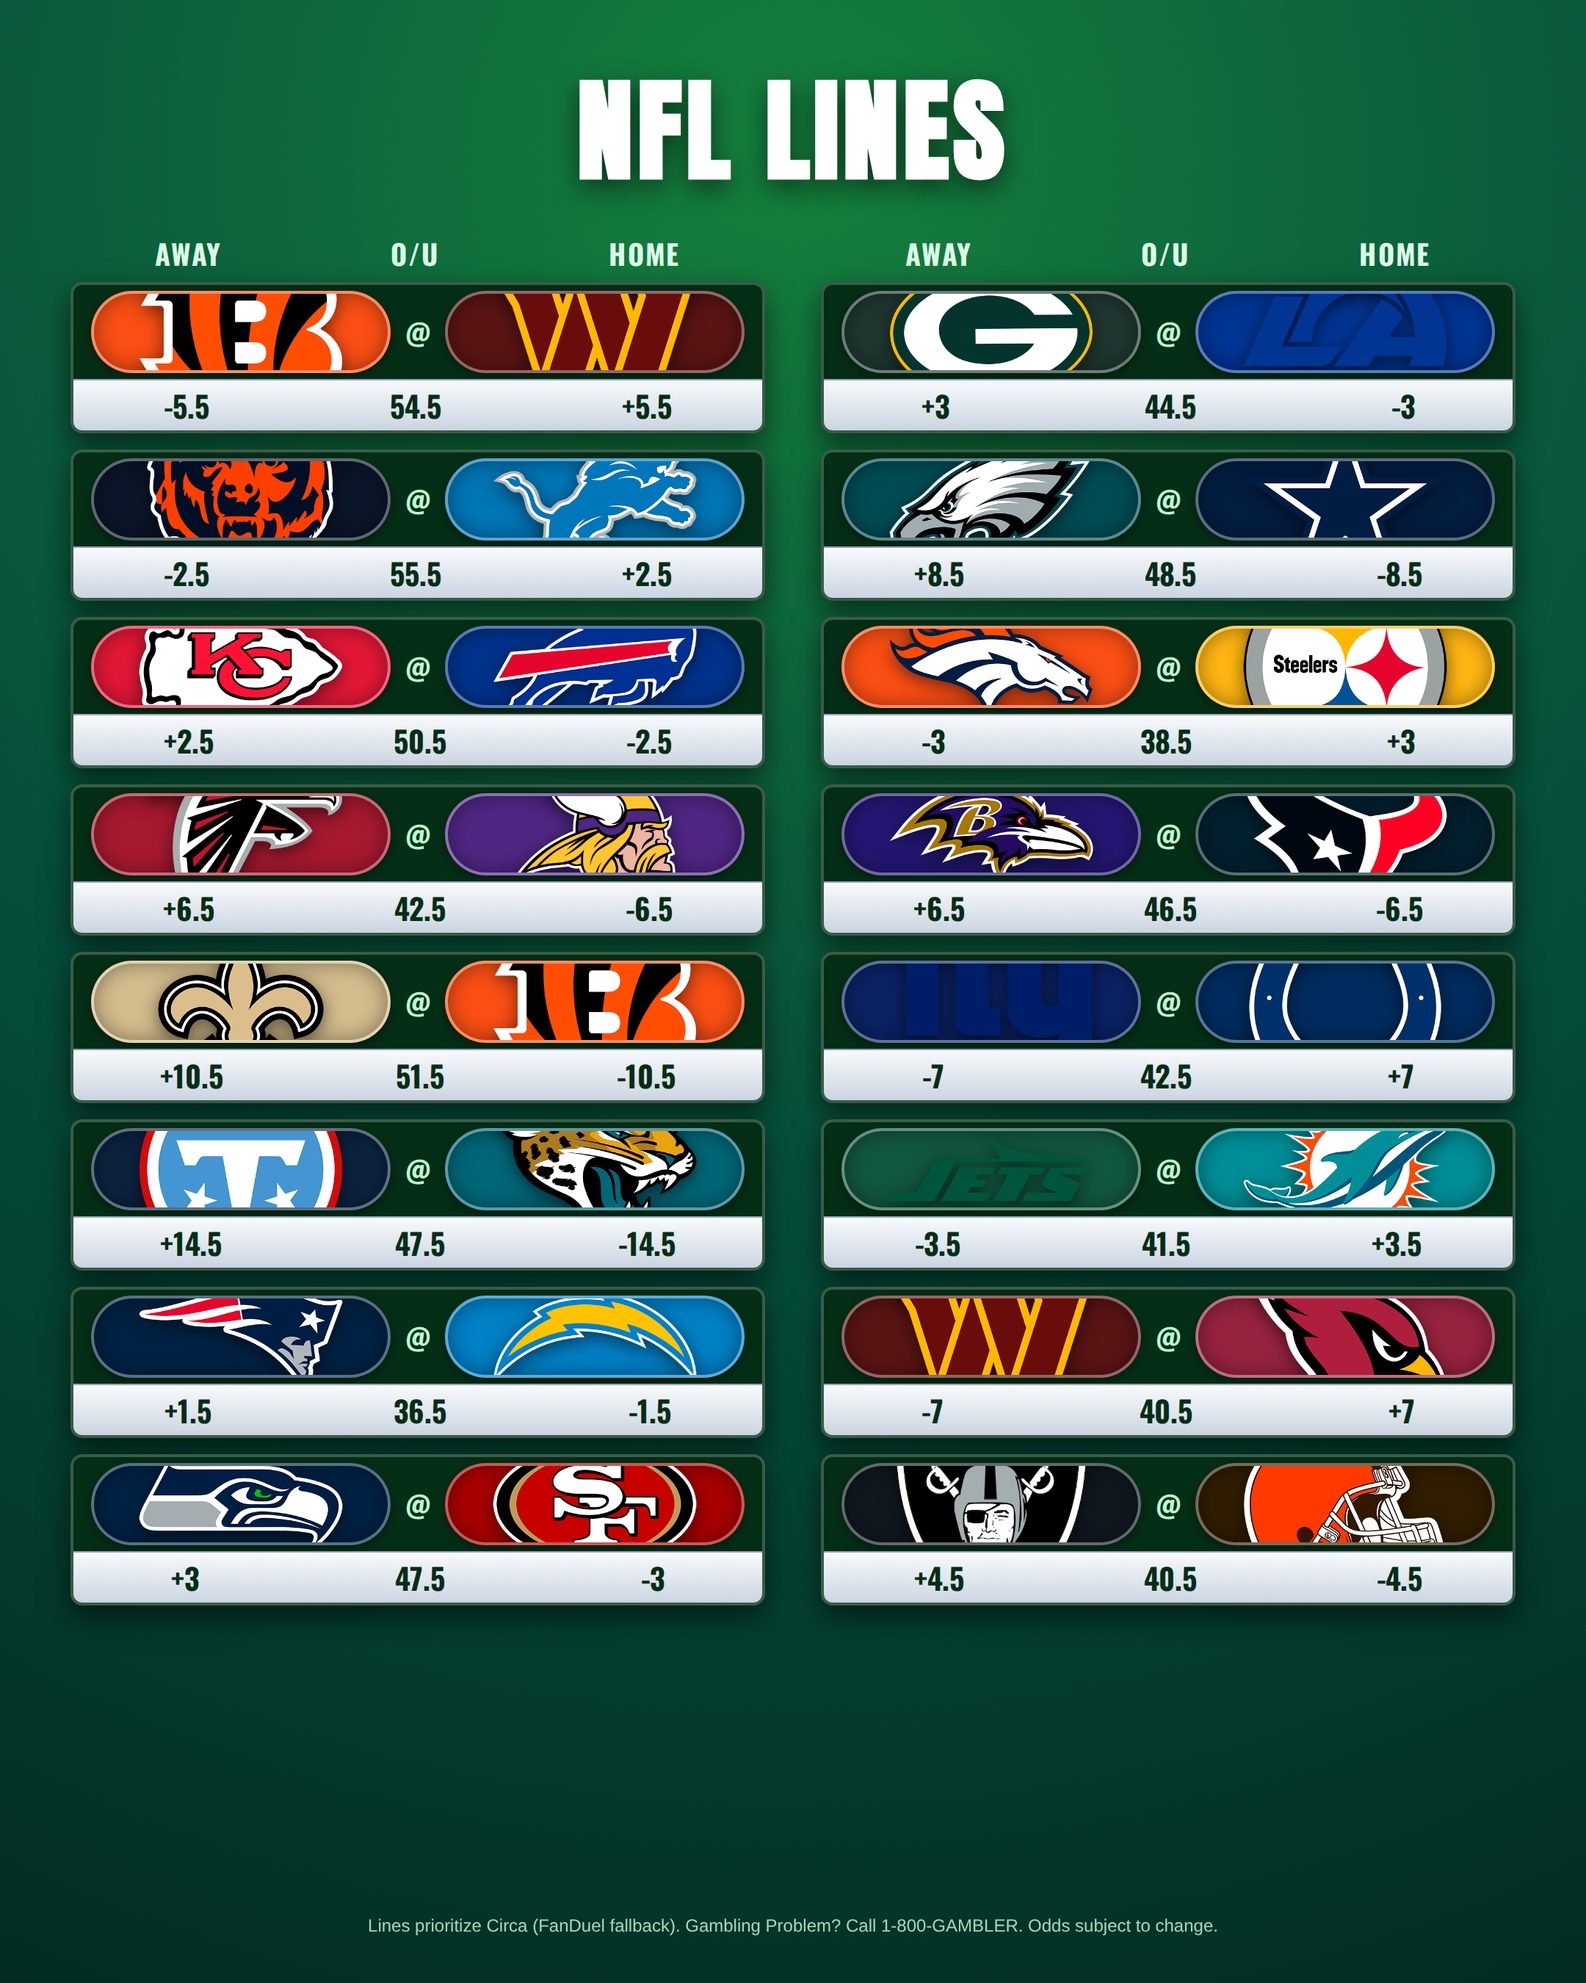
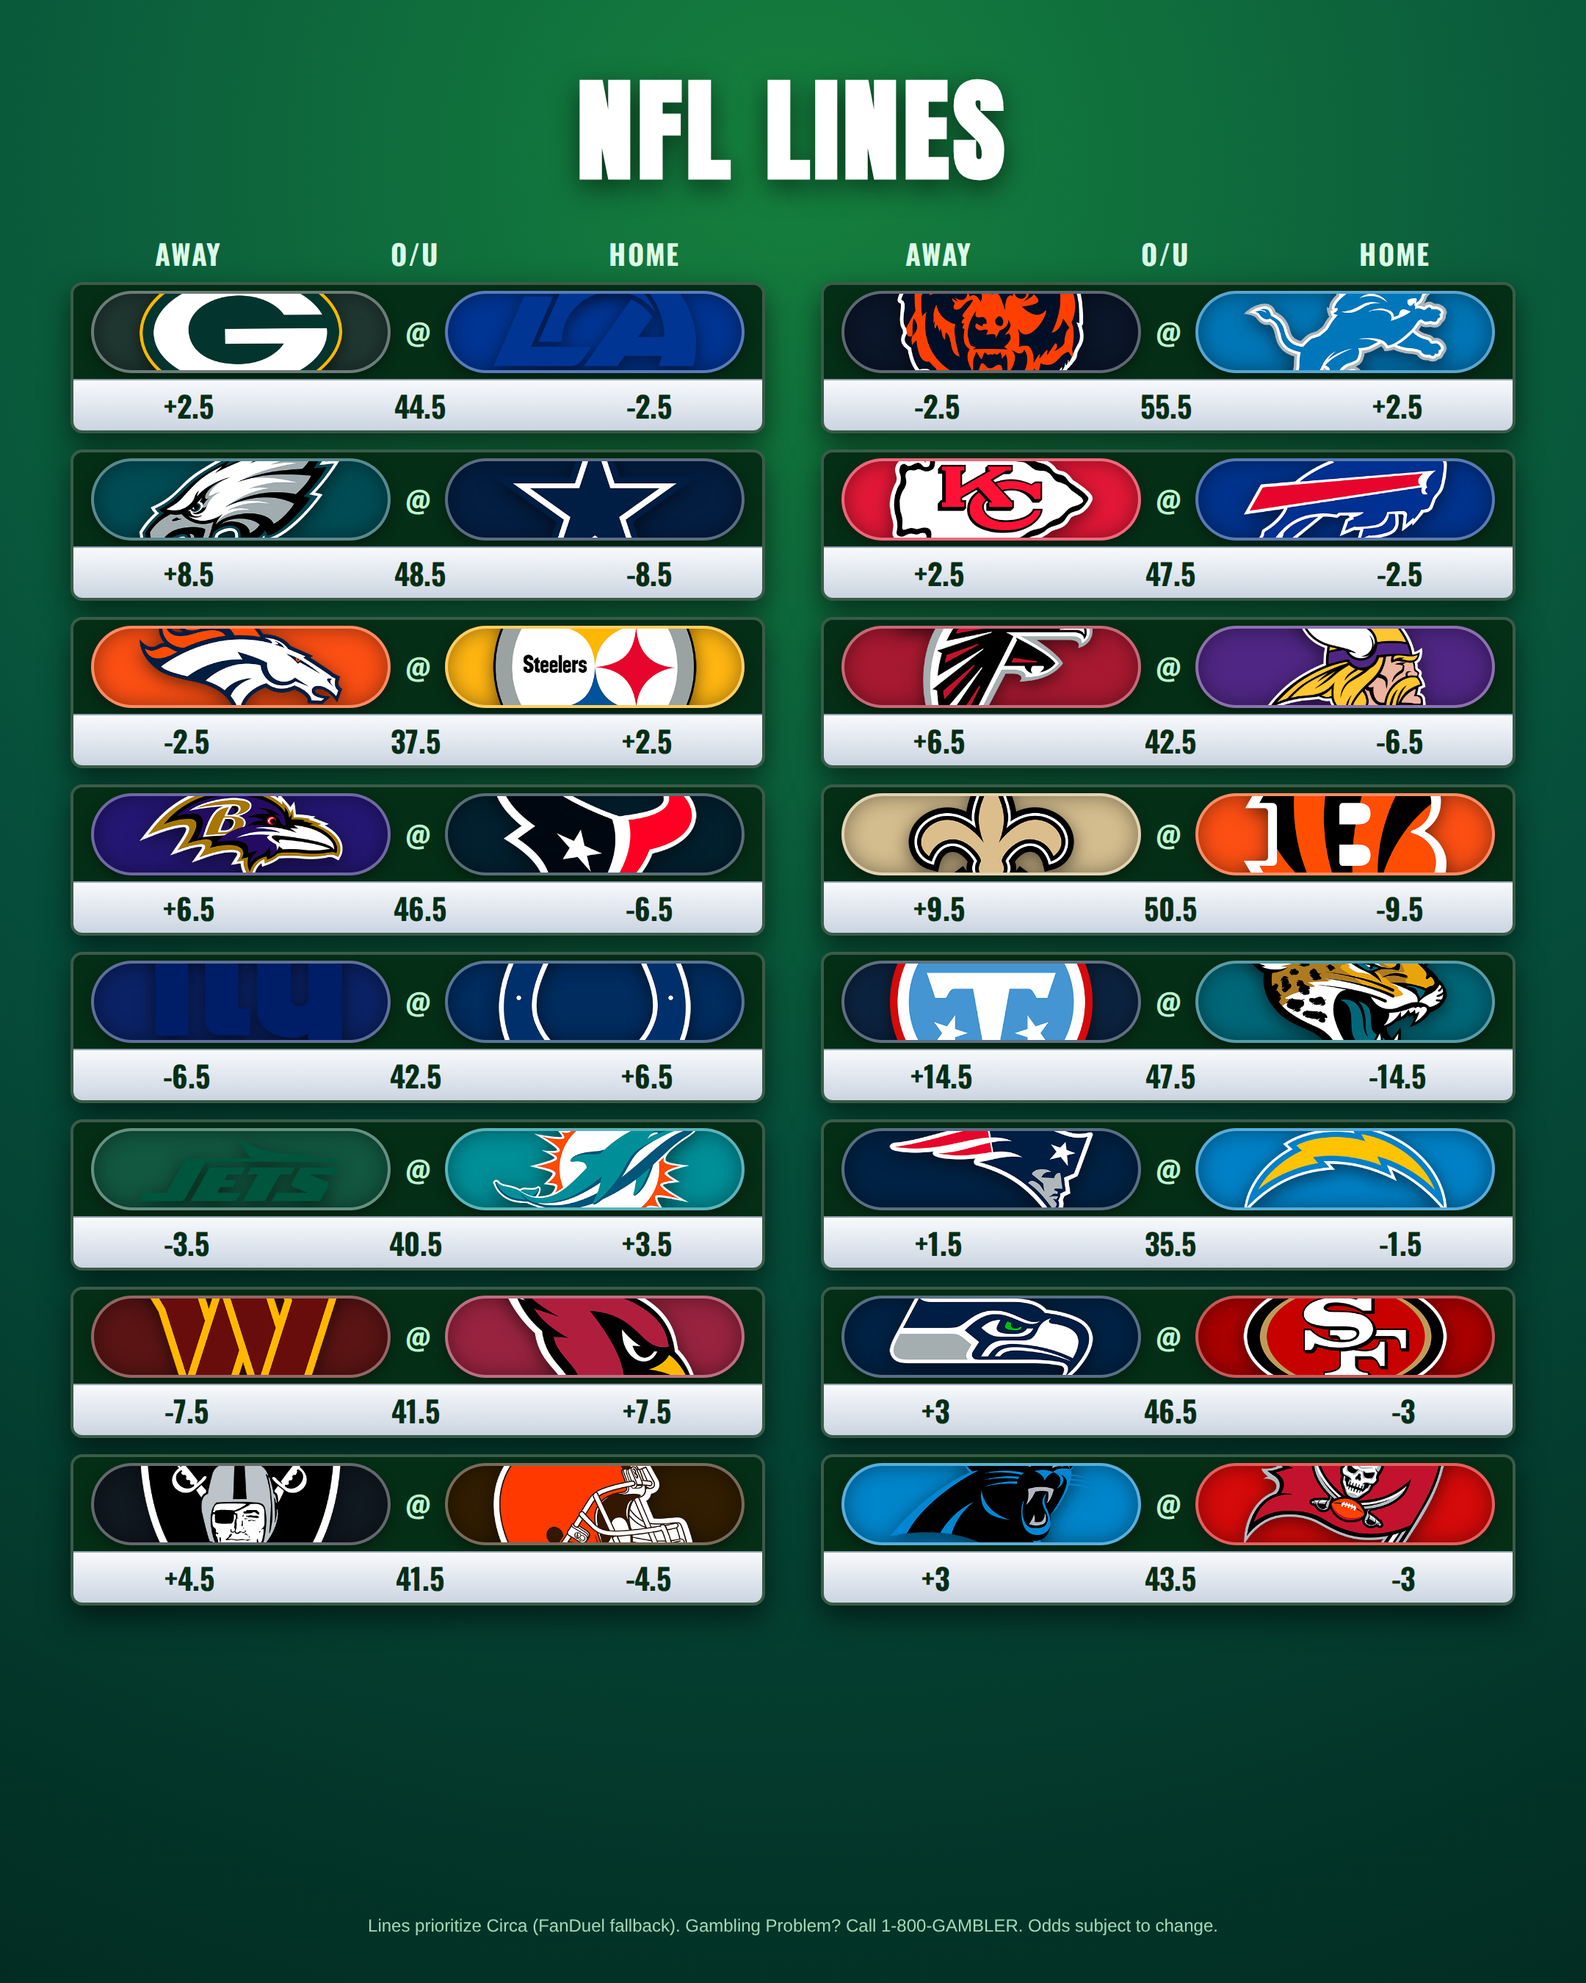
Auto-generate daily NBA betting graphic [skip ci]

diff --git a/output/temp.html b/output/temp.html
@@ -108,7 +108,7 @@
         </style>
     </head>
     <body>
-        <h1>TODAY'S GAMES (10)</h1>
+        <h1>TODAY'S GAMES (7)</h1>
         <div class="column-headers">
             <div class="header-labels"><span>AWAY</span><span>O/U</span><span>HOME</span></div>
             <div class="header-labels"><span>AWAY</span><span>O/U</span><span>HOME</span></div>
@@ -117,25 +117,59 @@
             
         <div class="card">
             <div class="logo-banner">
-                <div class="team-half" style="background-color: #5D76A9;">
-                    <img src="https://a.espncdn.com/i/teamlogos/nba/500/mem.png" class="team-logo" />
+                <div class="team-half" style="background-color: #C8102E;">
+                    <img src="https://a.espncdn.com/i/teamlogos/nba/500/det.png" class="team-logo" />
                 </div>
                 <div class="divider"></div>
-                <div class="team-half" style="background-color: #1D1160;">
-                    <img src="https://a.espncdn.com/i/teamlogos/nba/500/cha.png" class="team-logo" />
+                <div class="team-half" style="background-color: #0077C0;">
+                    <img src="https://a.espncdn.com/i/teamlogos/nba/500/orl.png" class="team-logo" />
                 </div>
             </div>
             <div class="odds-bar">
                 <span>-2.5</span>
-                <span class="ou-val">215.5</span>
+                <span class="ou-val">212.5</span>
                 <span>+2.5</span>
             </div>
         </div>
         
         <div class="card">
             <div class="logo-banner">
-                <div class="team-half" style="background-color: #E03A3E;">
-                    <img src="https://a.espncdn.com/i/teamlogos/nba/500/por.png" class="team-logo" />
+                <div class="team-half" style="background-color: #007A33;">
+                    <img src="https://a.espncdn.com/i/teamlogos/nba/500/bos.png" class="team-logo" />
+                </div>
+                <div class="divider"></div>
+                <div class="team-half" style="background-color: #002B5C;">
+                    <img src="https://a.espncdn.com/i/teamlogos/nba/500/wsh.png" class="team-logo" />
+                </div>
+            </div>
+            <div class="odds-bar">
+                <span>-10.5</span>
+                <span class="ou-val">217.5</span>
+                <span>+10.5</span>
+            </div>
+        </div>
+        
+        <div class="card">
+            <div class="logo-banner">
+                <div class="team-half" style="background-color: #00538C;">
+                    <img src="https://a.espncdn.com/i/teamlogos/nba/500/dal.png" class="team-logo" />
+                </div>
+                <div class="divider"></div>
+                <div class="team-half" style="background-color: #0E2240;">
+                    <img src="https://a.espncdn.com/i/teamlogos/nba/500/den.png" class="team-logo" />
+                </div>
+            </div>
+            <div class="odds-bar">
+                <span>+8.5</span>
+                <span class="ou-val">232.5</span>
+                <span>-8.5</span>
+            </div>
+        </div>
+        
+        <div class="card">
+            <div class="logo-banner">
+                <div class="team-half" style="background-color: #98002E;">
+                    <img src="https://a.espncdn.com/i/teamlogos/nba/500/mia.png" class="team-logo" />
                 </div>
                 <div class="divider"></div>
                 <div class="team-half" style="background-color: #006BB6;">
@@ -144,59 +178,8 @@
             </div>
             <div class="odds-bar">
                 <span>+3.5</span>
-                <span class="ou-val">231.5</span>
+                <span class="ou-val">238.5</span>
                 <span>-3.5</span>
-            </div>
-        </div>
-        
-        <div class="card">
-            <div class="logo-banner">
-                <div class="team-half" style="background-color: #000000;">
-                    <img src="https://a.espncdn.com/i/teamlogos/nba/500/bkn.png" class="team-logo" />
-                </div>
-                <div class="divider"></div>
-                <div class="team-half" style="background-color: #0c2340;">
-                    <img src="https://a.espncdn.com/i/teamlogos/nba/500/min.png" class="team-logo" />
-                </div>
-            </div>
-            <div class="odds-bar">
-                <span>+12.5</span>
-                <span class="ou-val">223.5</span>
-                <span>-12.5</span>
-            </div>
-        </div>
-        
-        <div class="card">
-            <div class="logo-banner">
-                <div class="team-half" style="background-color: #007AC1;">
-                    <img src="https://a.espncdn.com/i/teamlogos/nba/500/okc.png" class="team-logo" />
-                </div>
-                <div class="divider"></div>
-                <div class="team-half" style="background-color: #002D62;">
-                    <img src="https://a.espncdn.com/i/teamlogos/nba/500/ind.png" class="team-logo" />
-                </div>
-            </div>
-            <div class="odds-bar">
-                <span>-4.5</span>
-                <span class="ou-val">222.5</span>
-                <span>+4.5</span>
-            </div>
-        </div>
-        
-        <div class="card">
-            <div class="logo-banner">
-                <div class="team-half" style="background-color: #00471B;">
-                    <img src="https://a.espncdn.com/i/teamlogos/nba/500/mil.png" class="team-logo" />
-                </div>
-                <div class="divider"></div>
-                <div class="team-half" style="background-color: #CE1141;">
-                    <img src="https://a.espncdn.com/i/teamlogos/nba/500/tor.png" class="team-logo" />
-                </div>
-            </div>
-            <div class="odds-bar">
-                <span>+10.5</span>
-                <span class="ou-val">222.5</span>
-                <span>-10.5</span>
             </div>
         </div>
         
@@ -206,14 +189,31 @@
                     <img src="https://a.espncdn.com/i/teamlogos/nba/500/cle.png" class="team-logo" />
                 </div>
                 <div class="divider"></div>
-                <div class="team-half" style="background-color: #CE1141;">
-                    <img src="https://a.espncdn.com/i/teamlogos/nba/500/chi.png" class="team-logo" />
+                <div class="team-half" style="background-color: #006BB6;">
+                    <img src="https://a.espncdn.com/i/teamlogos/nba/500/ny.png" class="team-logo" />
                 </div>
             </div>
             <div class="odds-bar">
-                <span>-8.5</span>
-                <span class="ou-val">241.5</span>
-                <span>+8.5</span>
+                <span>+5.5</span>
+                <span class="ou-val">220.5</span>
+                <span>-5.5</span>
+            </div>
+        </div>
+        
+        <div class="card">
+            <div class="logo-banner">
+                <div class="team-half" style="background-color: #0c2340;">
+                    <img src="https://a.espncdn.com/i/teamlogos/nba/500/min.png" class="team-logo" />
+                </div>
+                <div class="divider"></div>
+                <div class="team-half" style="background-color: #007AC1;">
+                    <img src="https://a.espncdn.com/i/teamlogos/nba/500/okc.png" class="team-logo" />
+                </div>
+            </div>
+            <div class="odds-bar">
+                <span>+2.5</span>
+                <span class="ou-val">223.5</span>
+                <span>-2.5</span>
             </div>
         </div>
         
@@ -223,65 +223,14 @@
                     <img src="https://a.espncdn.com/i/teamlogos/nba/500/phx.png" class="team-logo" />
                 </div>
                 <div class="divider"></div>
-                <div class="team-half" style="background-color: #0C2340;">
-                    <img src="https://a.espncdn.com/i/teamlogos/nba/500/no.png" class="team-logo" />
-                </div>
-            </div>
-            <div class="odds-bar">
-                <span>-2.5</span>
-                <span class="ou-val">233.5</span>
-                <span>+2.5</span>
-            </div>
-        </div>
-        
-        <div class="card">
-            <div class="logo-banner">
-                <div class="team-half" style="background-color: #C8102E;">
-                    <img src="https://a.espncdn.com/i/teamlogos/nba/500/lac.png" class="team-logo" />
-                </div>
-                <div class="divider"></div>
                 <div class="team-half" style="background-color: #CE1141;">
                     <img src="https://a.espncdn.com/i/teamlogos/nba/500/hou.png" class="team-logo" />
                 </div>
             </div>
             <div class="odds-bar">
-                <span>+12.5</span>
-                <span class="ou-val">224.5</span>
-                <span>-12.5</span>
-            </div>
-        </div>
-        
-        <div class="card">
-            <div class="logo-banner">
-                <div class="team-half" style="background-color: #002B5C;">
-                    <img src="https://a.espncdn.com/i/teamlogos/nba/500/utah.png" class="team-logo" />
-                </div>
-                <div class="divider"></div>
-                <div class="team-half" style="background-color: #552583;">
-                    <img src="https://a.espncdn.com/i/teamlogos/nba/500/lal.png" class="team-logo" />
-                </div>
-            </div>
-            <div class="odds-bar">
-                <span>+13.5</span>
-                <span class="ou-val">224.5</span>
-                <span>-13.5</span>
-            </div>
-        </div>
-        
-        <div class="card">
-            <div class="logo-banner">
-                <div class="team-half" style="background-color: #C4CED4;">
-                    <img src="https://a.espncdn.com/i/teamlogos/nba/500/sa.png" class="team-logo" />
-                </div>
-                <div class="divider"></div>
-                <div class="team-half" style="background-color: #5A2D81;">
-                    <img src="https://a.espncdn.com/i/teamlogos/nba/500/sac.png" class="team-logo" />
-                </div>
-            </div>
-            <div class="odds-bar">
-                <span>-10.5</span>
-                <span class="ou-val">224.5</span>
                 <span>+10.5</span>
+                <span class="ou-val">223.5</span>
+                <span>-10.5</span>
             </div>
         </div>
         

diff --git a/output/nfl_temp.html b/output/nfl_temp.html
@@ -121,23 +121,6 @@
             
         <div class="card">
             <div class="logo-banner">
-                <div class="team-oval" style="background-color: #FB4F14;">
-                    <img src="https://a.espncdn.com/i/teamlogos/nfl/500/cin.png" class="team-logo" />
-                </div>
-                <div class="vs-badge">@</div>
-                <div class="team-oval" style="background-color: #5A1414;">
-                    <img src="https://a.espncdn.com/i/teamlogos/nfl/500/wsh.png" class="team-logo" />
-                </div>
-            </div>
-            <div class="odds-bar">
-                <span>-5.5</span>
-                <span class="ou-val">54.5</span>
-                <span>+5.5</span>
-            </div>
-        </div>
-        
-        <div class="card">
-            <div class="logo-banner">
                 <div class="team-oval" style="background-color: #203731;">
                     <img src="https://a.espncdn.com/i/teamlogos/nfl/500/gb.png" class="team-logo" />
                 </div>
@@ -147,9 +130,9 @@
                 </div>
             </div>
             <div class="odds-bar">
-                <span>+3</span>
+                <span>+2.5</span>
                 <span class="ou-val">44.5</span>
-                <span>-3</span>
+                <span>-2.5</span>
             </div>
         </div>
         
@@ -199,7 +182,7 @@
             </div>
             <div class="odds-bar">
                 <span>+2.5</span>
-                <span class="ou-val">50.5</span>
+                <span class="ou-val">47.5</span>
                 <span>-2.5</span>
             </div>
         </div>
@@ -215,9 +198,9 @@
                 </div>
             </div>
             <div class="odds-bar">
-                <span>-3</span>
-                <span class="ou-val">38.5</span>
-                <span>+3</span>
+                <span>-2.5</span>
+                <span class="ou-val">37.5</span>
+                <span>+2.5</span>
             </div>
         </div>
         
@@ -266,9 +249,9 @@
                 </div>
             </div>
             <div class="odds-bar">
-                <span>+10.5</span>
-                <span class="ou-val">51.5</span>
-                <span>-10.5</span>
+                <span>+9.5</span>
+                <span class="ou-val">50.5</span>
+                <span>-9.5</span>
             </div>
         </div>
         
@@ -283,9 +266,9 @@
                 </div>
             </div>
             <div class="odds-bar">
-                <span>-7</span>
+                <span>-6.5</span>
                 <span class="ou-val">42.5</span>
-                <span>+7</span>
+                <span>+6.5</span>
             </div>
         </div>
         
@@ -318,7 +301,7 @@
             </div>
             <div class="odds-bar">
                 <span>-3.5</span>
-                <span class="ou-val">41.5</span>
+                <span class="ou-val">40.5</span>
                 <span>+3.5</span>
             </div>
         </div>
@@ -335,7 +318,7 @@
             </div>
             <div class="odds-bar">
                 <span>+1.5</span>
-                <span class="ou-val">36.5</span>
+                <span class="ou-val">35.5</span>
                 <span>-1.5</span>
             </div>
         </div>
@@ -351,9 +334,9 @@
                 </div>
             </div>
             <div class="odds-bar">
-                <span>-7</span>
-                <span class="ou-val">40.5</span>
-                <span>+7</span>
+                <span>-7.5</span>
+                <span class="ou-val">41.5</span>
+                <span>+7.5</span>
             </div>
         </div>
         
@@ -369,7 +352,7 @@
             </div>
             <div class="odds-bar">
                 <span>+3</span>
-                <span class="ou-val">47.5</span>
+                <span class="ou-val">46.5</span>
                 <span>-3</span>
             </div>
         </div>
@@ -386,8 +369,25 @@
             </div>
             <div class="odds-bar">
                 <span>+4.5</span>
-                <span class="ou-val">40.5</span>
+                <span class="ou-val">41.5</span>
                 <span>-4.5</span>
+            </div>
+        </div>
+        
+        <div class="card">
+            <div class="logo-banner">
+                <div class="team-oval" style="background-color: #0085CA;">
+                    <img src="https://a.espncdn.com/i/teamlogos/nfl/500/car.png" class="team-logo" />
+                </div>
+                <div class="vs-badge">@</div>
+                <div class="team-oval" style="background-color: #D50A0A;">
+                    <img src="https://a.espncdn.com/i/teamlogos/nfl/500/tb.png" class="team-logo" />
+                </div>
+            </div>
+            <div class="odds-bar">
+                <span>+3</span>
+                <span class="ou-val">43.5</span>
+                <span>-3</span>
             </div>
         </div>
         
